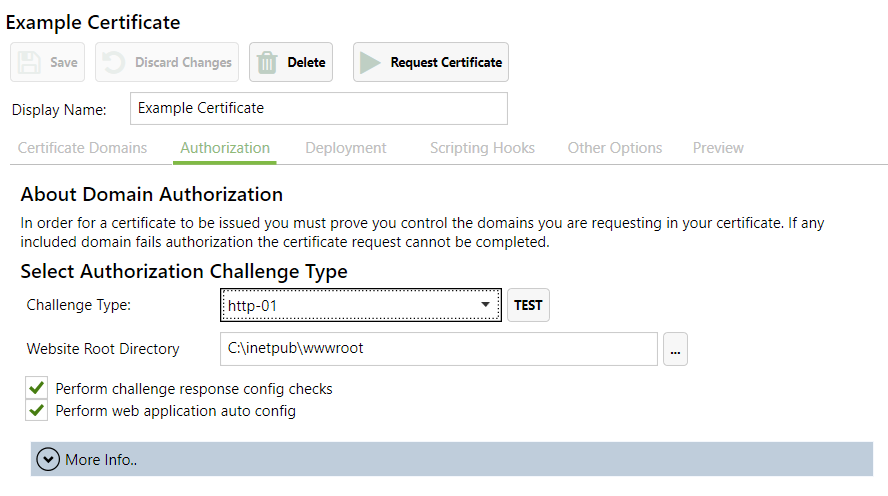
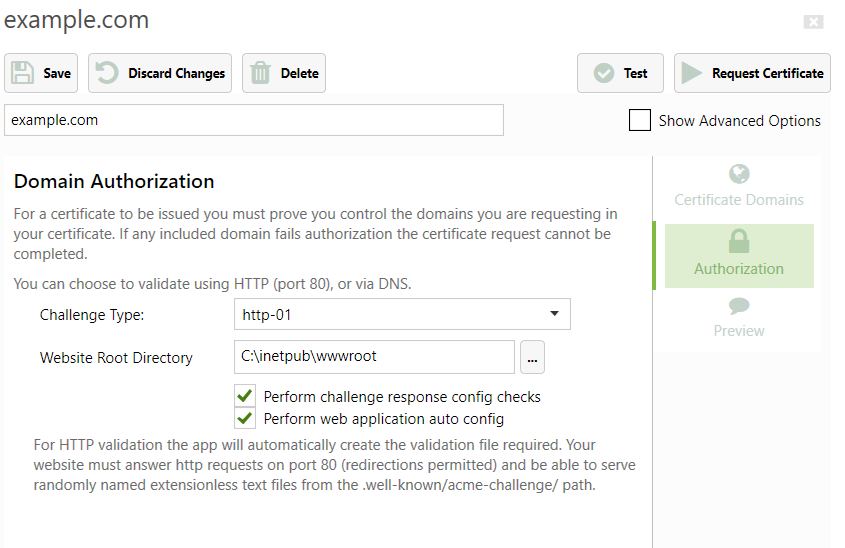
UI: update quick start UI

diff --git a/src/Certify.UI/Controls/QuickStart.xaml b/src/Certify.UI/Controls/QuickStart.xaml
@@ -56,7 +56,7 @@
                         DockPanel.Dock="Top"
                         FontFamily="Segoe UI Light"
                         FontSize="16"
-                        Text="Choose how you want to prove your control of the domains on your certificate. This can be via http requests to your website or using your DNS providers API."
+                        Text="Choose how you want to prove your control of the domains on your certificate. This can be via http requests to your website or using your DNS providers API (required for wildcard domains)."
                         TextWrapping="WrapWithOverflow" />
                     <Image
                         Height="300"
@@ -75,18 +75,18 @@
                         DockPanel.Dock="Top"
                         FontFamily="Segoe UI Light"
                         FontSize="24"
-                        Text="Step 3. Deployment" />
+                        Text="Step 3. Preview" />
                     <TextBlock
                         DockPanel.Dock="Top"
                         FontFamily="Segoe UI Light"
                         FontSize="16"
-                        Text="You can simply choose to apply your certificate to the selected website, or you can choose from more advanced options."
+                        Text="Preview the steps which will be performed to request your certificate. You can optionally use the Test option to check if your configuration is OK (recommended). You can also Show Advanced Options to refine your settings."
                         TextWrapping="WrapWithOverflow" />
                     <Image
                         Height="300"
                         Margin="0,16,0,0"
                         DockPanel.Dock="Top"
-                        Source="/Certify.UI;component/Assets/Images/QuickStart/ChooseDeployment.PNG">
+                        Source="/Certify.UI;component/Assets/Images/QuickStart/PreviewDeployment.PNG">
                         <Image.Effect>
                             <DropShadowEffect Color="#FFE0E0E0" />
                         </Image.Effect>

diff --git a/src/Certify.UI/Controls/ManagedCertificate/ManagedCertificateSettings.xaml.cs b/src/Certify.UI/Controls/ManagedCertificate/ManagedCertificateSettings.xaml.cs
@@ -1,11 +1,11 @@
-using Certify.Locales;
-using Certify.Models;
-using MahApps.Metro.Controls;
-using System;
+using System;
 using System.Linq;
 using System.Threading.Tasks;
 using System.Windows;
 using System.Windows.Controls;
+using Certify.Locales;
+using Certify.Models;
+using MahApps.Metro.Controls;
 
 namespace Certify.UI.Controls.ManagedCertificate
 {
@@ -281,17 +281,6 @@ namespace Certify.UI.Controls.ManagedCertificate
                     new System.Collections.ObjectModel.ObservableCollection<StatusMessage>(results);
 
                 ItemViewModel.RaisePropertyChangedEvent(nameof(ItemViewModel.ConfigCheckResults));
-
-                /*if (ItemViewModel.ConfigCheckResults.All(a => a.IsOK))
-                {
-                    MessageBox.Show(SR.ManagedCertificateSettings_ConfigurationCheckOk, SR.Challenge, MessageBoxButton.OK, MessageBoxImage.Information);
-                }
-                else
-                {
-                    // MessageBox.Show(string.Format(SR.ManagedCertificateSettings_ConfigurationCheckFailed,
-                    // String.Join("\r\n", ItemViewModel.ConfigCheckResults.FailedItemSummary)),
-                    // SR.ManagedCertificateSettings_ChallengeTestFailed, MessageBoxButton.OK, MessageBoxImage.Error);
-                }*/
 
                 //TODO: just use viewmodel to determine if test button should be enabled
                 Button_TestChallenge.IsEnabled = true;
